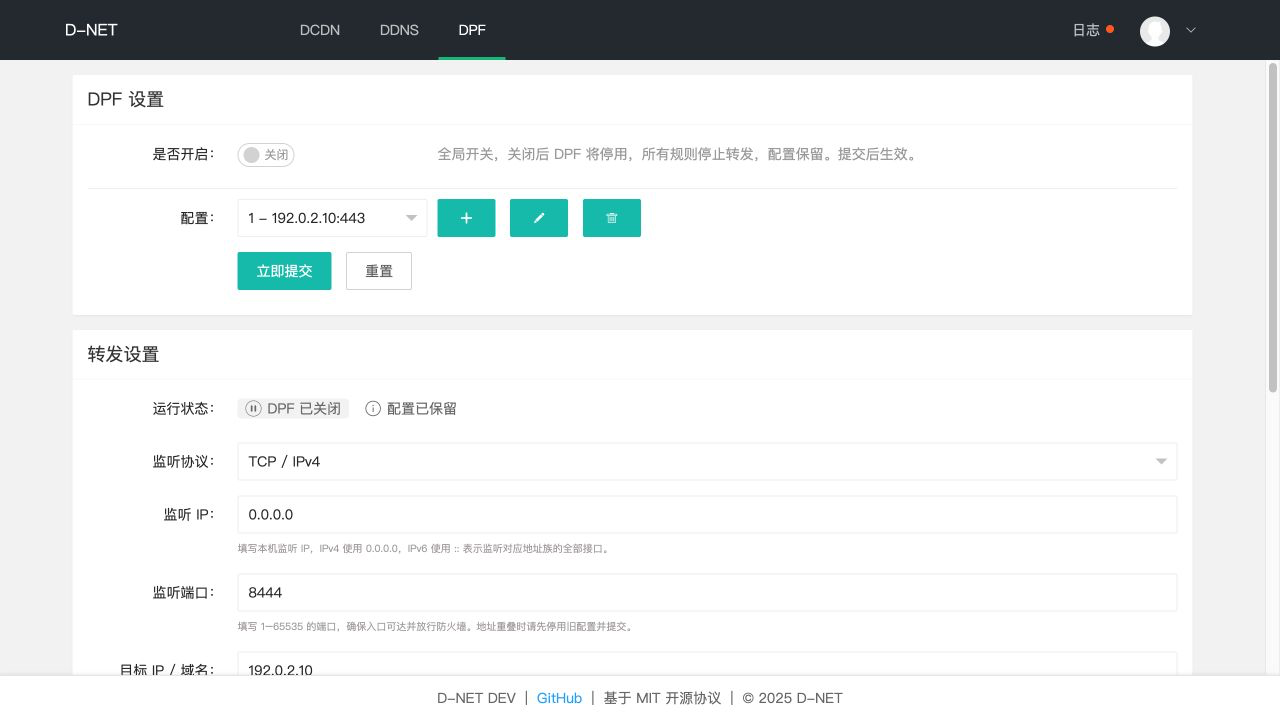
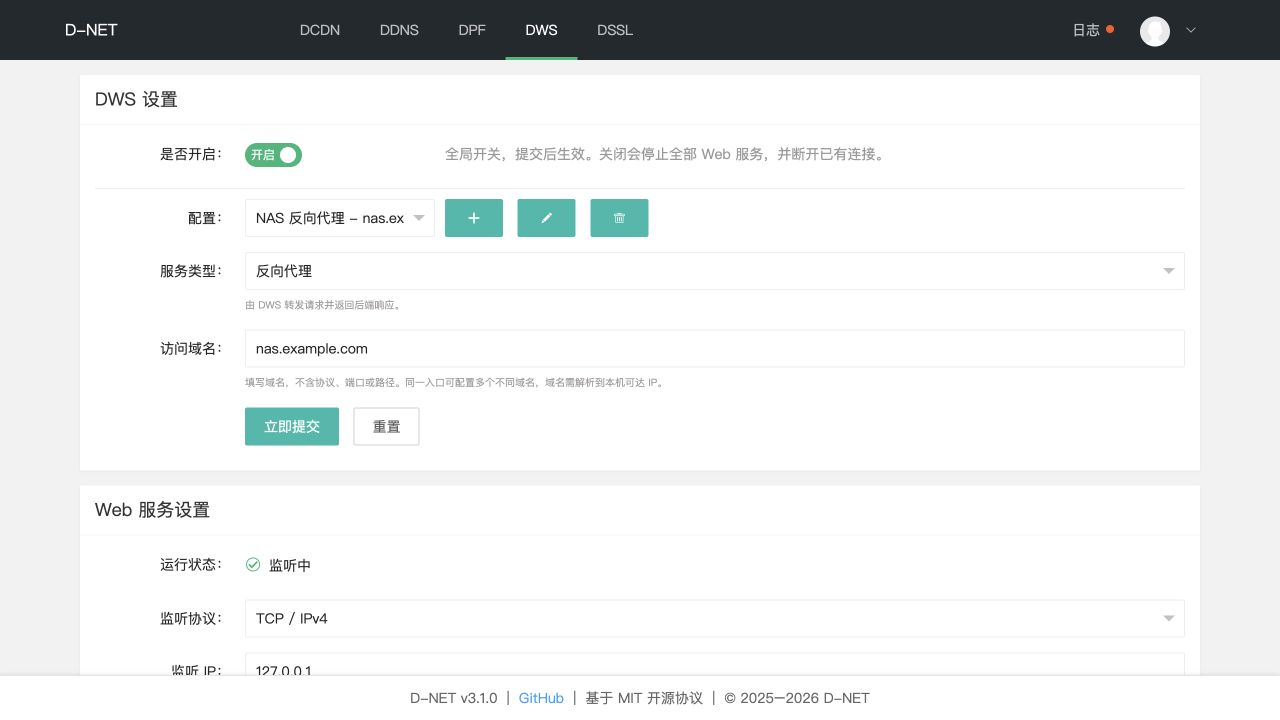
docs(readme): 更新管理界面描述图片标题
- 将图片标题从 "DPF 配置与运行状态" 修改为 "DWS 反向代理配置与运行状态"

diff --git a/README.md b/README.md
@@ -26,7 +26,7 @@
 - **Web 管理界面：** 可视化配置和管理
 
 ### 界面
-![D-NET 管理界面：DPF 配置与运行状态](dnet.png)
+![D-NET 管理界面：DWS 反向代理配置与运行状态](dnet.png)
 
 ## 快速开始
 
